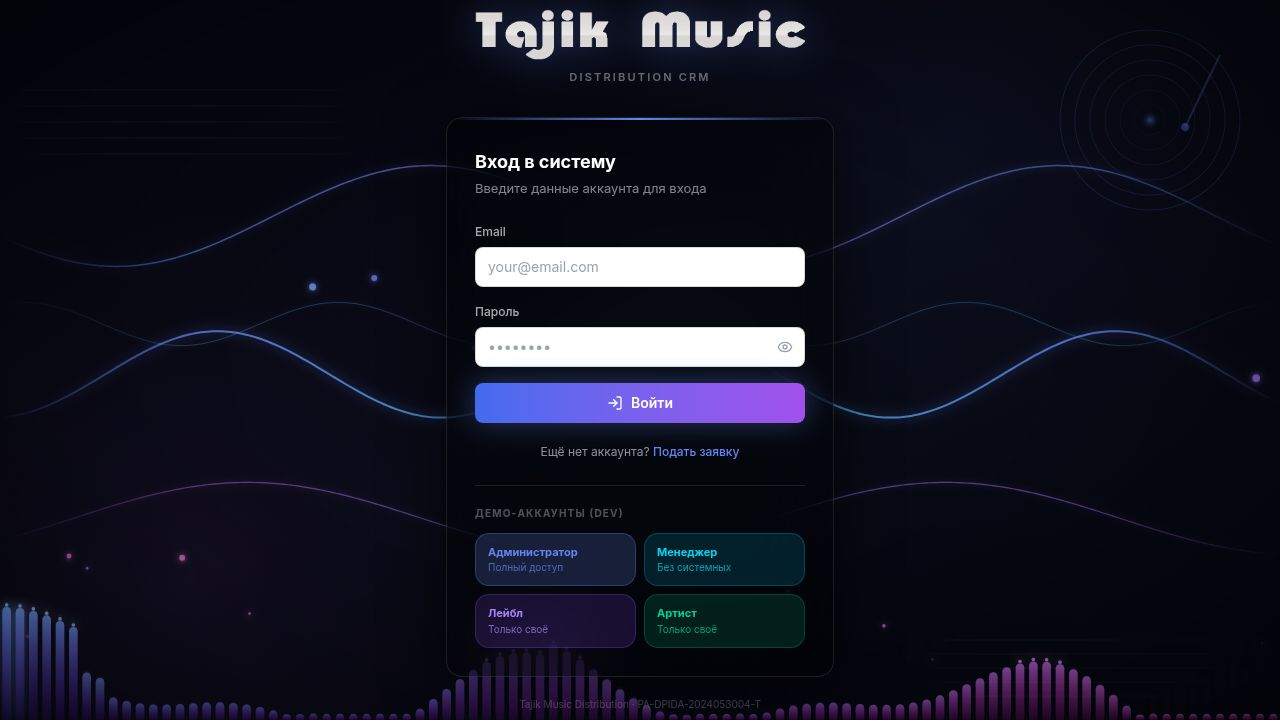
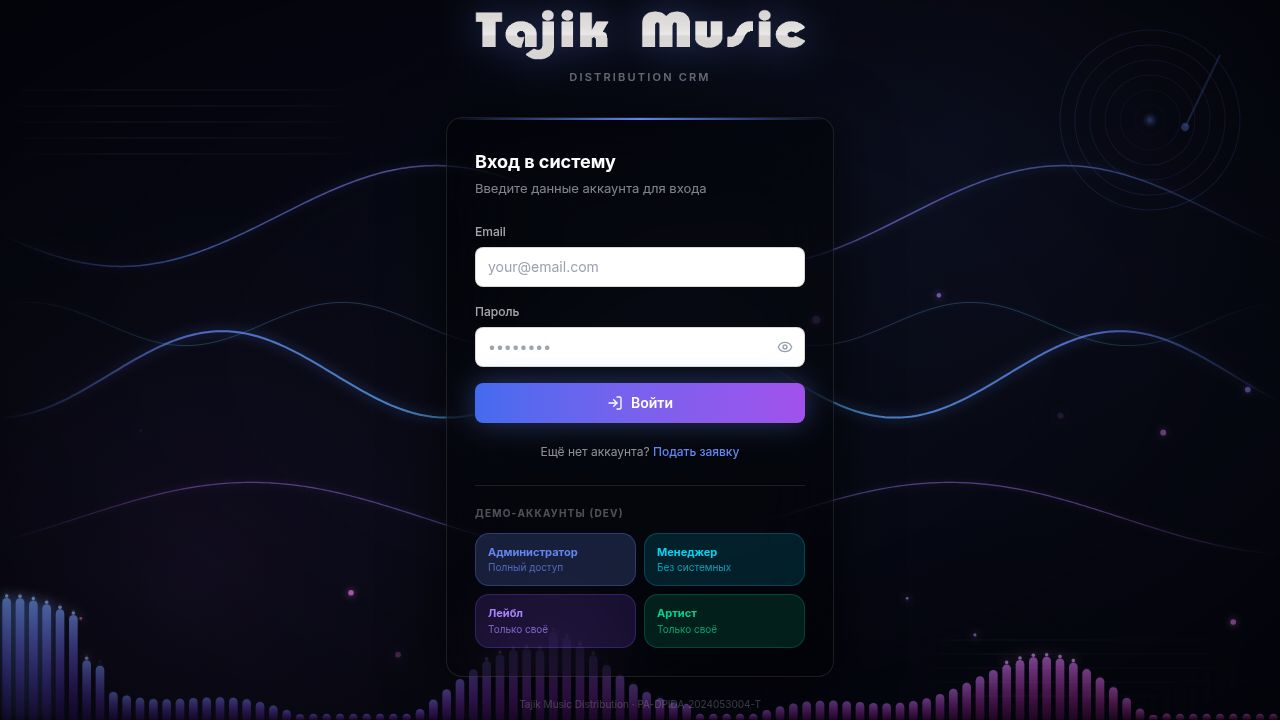
Adjust interface for label role to simplify user experience
Update sidebar navigation and page titles to reflect a simplified interface for the 'label' role, including renaming 'Royalties' to 'Earnings' and adjusting permissions for various sections.

Replit-Commit-Author: Agent
Replit-Commit-Session-Id: 4185e965-25ef-4424-afa0-0056824221be
Replit-Commit-Checkpoint-Type: full_checkpoint
Replit-Commit-Event-Id: d0899b2f-878d-40e1-be48-9a7116741aa1
Replit-Commit-Screenshot-Url: https://storage.googleapis.com/screenshot-production-us-central1/c023d4e4-901d-4502-8a07-ef976fc831ef/4185e965-25ef-4424-afa0-0056824221be/1FKs1yf
Replit-Helium-Checkpoint-Created: true

diff --git a/artifacts/crm-panel/src/components/sidebar-nav.tsx b/artifacts/crm-panel/src/components/sidebar-nav.tsx
@@ -36,6 +36,11 @@ type NavItem = {
   badge?: string;
   badgeColor?: string;
   iconColor?: string;
+  /**
+   * Per-role override of the displayed translation key.
+   * Used e.g. для роли `label`: пункт /royalties показывается как "Earnings".
+   */
+  nameKeyByRole?: Partial<Record<"admin" | "manager" | "label" | "artist", string>>;
 };
 
 type NavGroup = {
@@ -82,7 +87,11 @@ const navGroups: NavGroup[] = [
   {
     titleKey: "financials",
     items: [
-      { nameKey: "royalties", href: "/royalties", icon: Coins,    iconColor: "text-green-400" },
+      {
+        nameKey: "royalties", href: "/royalties", icon: Coins, iconColor: "text-green-400",
+        // MVP-упрощение: для лейбла /royalties — это и есть единый раздел "Доходы".
+        nameKeyByRole: { label: "earnings" },
+      },
       { nameKey: "finance",   href: "/finance",   icon: Banknote, iconColor: "text-green-400" },
       { nameKey: "splits",    href: "/splits",    icon: PieChart, iconColor: "text-green-400" },
       { nameKey: "payouts",   href: "/payouts",   icon: Wallet,   iconColor: "text-green-400" },
@@ -169,6 +178,9 @@ export function SidebarNav() {
                 const isActive =
                   location === item.href ||
                   (item.href !== "/" && location.startsWith(item.href));
+                const labelKey =
+                  (user && item.nameKeyByRole?.[user.role]) ?? item.nameKey;
+                const labelText = nav[labelKey] ?? labelKey;
 
                 const iconEl = (
                   <span
@@ -198,7 +210,7 @@ export function SidebarNav() {
                 return (
                   <Link key={item.href} href={item.href}>
                     <span
-                      title={collapsed ? (nav[item.nameKey] ?? item.nameKey) : undefined}
+                      title={collapsed ? labelText : undefined}
                       className={cn(
                         "nav-item group relative flex items-center rounded-lg cursor-pointer transition-all duration-150",
                         collapsed ? "px-0 py-0 justify-center" : "px-2 py-[6px]",
@@ -217,7 +229,7 @@ export function SidebarNav() {
                               isActive ? "text-white" : "text-white/75 group-hover:text-white"
                             )}
                           >
-                            {nav[item.nameKey] ?? item.nameKey}
+                            {labelText}
                           </span>
 
                           {item.badge && (

diff --git a/artifacts/crm-panel/src/lib/permissions.ts b/artifacts/crm-panel/src/lib/permissions.ts
@@ -1,19 +1,26 @@
 import type { Role } from "./auth";
 
 /** Which roles can access each route */
+//
+// Label-MVP (UI-упрощение под музыкальную дистрибуцию):
+//   role=label видит ТОЛЬКО: /, /releases, /artists, /analytics, /royalties (=Earnings),
+//   /splits, /payouts, /support, /profile.
+//   Удалены: /labels, /publishing, /videos, /finance, /finance/import.
+//   /finance остался для admin/manager/artist (artist — historic), label заходит в Earnings
+//   через /royalties — там уже есть выручка по релизам/DSP.
 export const ROUTE_ROLES: Record<string, Role[]> = {
   "/":               ["admin", "manager", "label", "artist"],
   "/analytics":      ["admin", "manager", "label", "artist"],
   "/distribution":   ["admin"],
   "/releases":       ["admin", "manager", "label", "artist"],
   "/artists":        ["admin", "manager", "label", "artist"],
-  "/labels":         ["admin", "manager", "label"],
-  "/videos":         ["admin", "manager", "label", "artist"],
+  "/labels":         ["admin", "manager"],
+  "/videos":         ["admin", "manager", "artist"],
   "/users":          ["admin", "manager"],
-  "/publishing":     ["admin", "manager", "label"],
+  "/publishing":     ["admin", "manager"],
   "/crm":            ["admin"],
   "/royalties":      ["admin", "manager", "label", "artist"],
-  "/finance":        ["admin", "manager", "label", "artist"],
+  "/finance":        ["admin", "manager", "artist"],
   "/finance/import": ["admin", "manager"],
   "/splits":         ["admin", "manager", "label", "artist"],
   "/payouts":        ["admin", "manager", "label", "artist"],

diff --git a/artifacts/crm-panel/src/pages/royalties/index.tsx b/artifacts/crm-panel/src/pages/royalties/index.tsx
@@ -1,6 +1,7 @@
 import { useMemo, useState } from "react";
 import { Layout } from "@/components/layout";
 import { useAuth } from "@/lib/auth";
+import { useLang } from "@/lib/i18n";
 import {
   useGetRoyaltySummary,
   useListRoyaltyStatements,
@@ -68,6 +69,8 @@ function pct(curr: number, prev: number) {
 
 export default function Royalties() {
   const { user } = useAuth();
+  const { t } = useLang();
+  const nav = t.nav as Record<string, string>;
   const queryClient = useQueryClient();
 
   // Build entity filter from current user role
@@ -163,7 +166,9 @@ export default function Royalties() {
         {/* Header */}
         <div className="flex items-start justify-between gap-4 flex-wrap">
           <div>
-            <h1 className="text-3xl font-bold tracking-tight">Роялти</h1>
+            <h1 className="text-3xl font-bold tracking-tight">
+              {user?.role === "label" ? nav.earnings : nav.royalties}
+            </h1>
             <p className="text-muted-foreground mt-1">
               Отчёты, выплаты и аналитика доходов
               {entityParams.entity_type ? "" : " по всему каталогу"}.

diff --git a/artifacts/crm-panel/src/lib/i18n.tsx b/artifacts/crm-panel/src/lib/i18n.tsx
@@ -22,6 +22,7 @@ const translations = {
       crm: "CRM",
       financials: "Financials",
       royalties: "Royalties",
+      earnings: "Earnings",
       finance: "Finance",
       splits: "Splits",
       payouts: "Payouts",
@@ -119,6 +120,7 @@ const translations = {
       crm: "CRM",
       financials: "Финансы",
       royalties: "Роялти",
+      earnings: "Доходы",
       finance: "Финансы",
       splits: "Сплиты",
       payouts: "Выплаты",